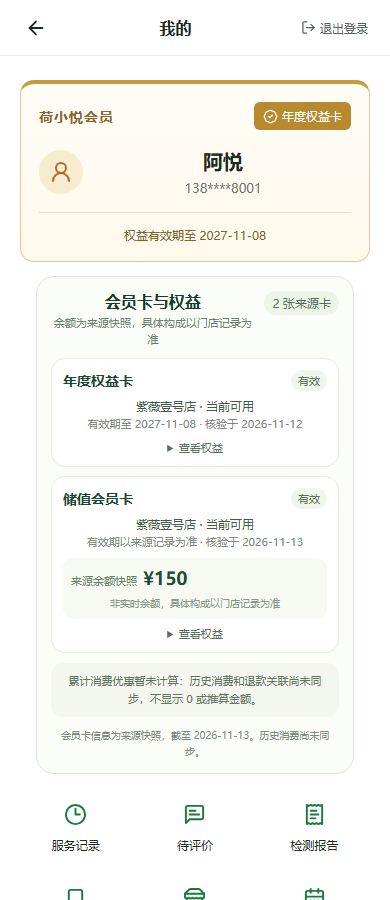
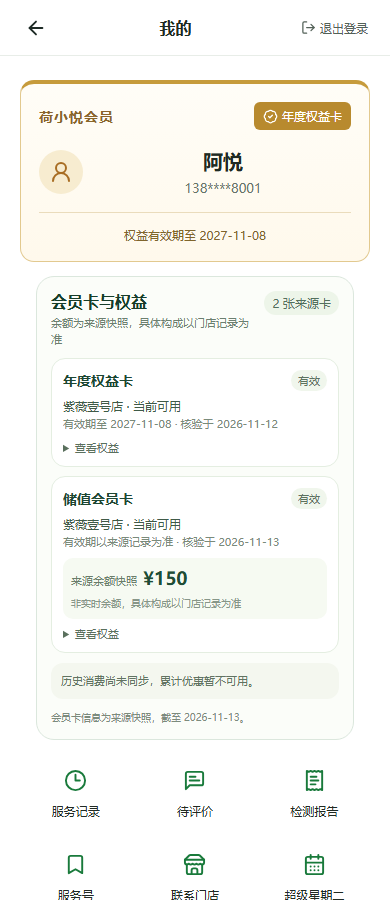
feat(customer): expose read-only membership card snapshots

diff --git a/diy-web/src/components/profile-home.css b/diy-web/src/components/profile-home.css
@@ -72,7 +72,7 @@
 .profile-section-heading > .profile-collapse-records { margin-left: 2px; color: #667369; }
 
 /* Read-only source membership snapshot. Never present as DIY wallet. */
-.profile-membership-detail{margin:14px 16px 4px;padding:14px;border:1px solid #dbe7dd;border-radius:18px;background:#fbfdf9}
+.profile-membership-detail{margin:14px 16px 4px;padding:14px;border:1px solid #dbe7dd;border-radius:18px;background:#fbfdf9;text-align:left}
 .profile-membership-heading{display:flex;justify-content:space-between;align-items:flex-start;gap:10px;margin-bottom:10px}
 .profile-membership-heading h2{margin:0;font-size:16px;color:#173d2a}
 .profile-membership-heading small{display:block;margin-top:3px;color:#6c7f70;font-size:11px;line-height:1.5}
@@ -93,7 +93,7 @@
 .profile-membership-balance small{flex-basis:100%;font-size:10px;color:#879688;line-height:1.5}
 .profile-membership-benefits{margin-top:7px;font-size:11px;color:#5a705d}
 .profile-membership-benefits summary{cursor:pointer;outline-offset:2px}
-.profile-membership-benefits ul{margin:6px 0 2px;padding-left:16px;line-height:1.6}
+.profile-membership-benefits ul{margin:6px 0 2px;padding-left:18px;line-height:1.6;text-align:left;list-style:disc outside}
 .profile-membership-benefits small{display:block;margin-top:4px;color:#89968a;font-size:10px;line-height:1.5}
 .profile-membership-unknown{display:grid;grid-template-columns:1fr 1fr;gap:9px;margin-top:10px}
 .profile-membership-unknown-note{margin:10px 0 0;padding:9px 10px;border-radius:12px;background:#f4f7ef;color:#617362;font-size:11px;line-height:1.6}

diff --git a/diy-web/src/components/ProfilePage.tsx b/diy-web/src/components/ProfilePage.tsx
@@ -311,8 +311,8 @@ function MembershipSnapshot({ data, loading, error, onRetry }: { data: CustomerM
         <details className="profile-membership-benefits"><summary>查看权益</summary><ul>{card.benefits.map(benefit => <li key={benefit}>{benefit}</li>)}</ul><small>{card.benefits_note}</small></details>
       </li>)}
     </ul>}
-    <p className="profile-membership-unknown-note">累计消费优惠暂未计算：历史消费和退款关联尚未同步，不显示 0 或推算金额。</p>
-    <p className="profile-membership-scope">{data.coverage.card_snapshot === 'returned' ? '会员卡信息为来源快照' : '暂无来源会员卡'}{data.coverage.as_of ? `，截至 ${formatDateTime(data.coverage.as_of).slice(0, 10)}` : ''}。历史消费尚未同步。</p>
+    <p className="profile-membership-unknown-note">历史消费尚未同步，累计优惠暂不可用。</p>
+    <p className="profile-membership-scope">{data.coverage.card_snapshot === 'returned' ? '会员卡信息为来源快照' : '暂无来源会员卡'}{data.coverage.as_of ? `，截至 ${formatDateTime(data.coverage.as_of).slice(0, 10)}` : ''}。</p>
   </section>;
 }
 

diff --git a/STATUS.md b/STATUS.md
@@ -40,7 +40,7 @@ pytest test_customer_membership_overview + h5_auth + membership_verification
 27 passed, 9 subtests passed
 
 diy-web build: passed
-diy-web tests: 380 tests, 379 passed, 1 skipped
+diy-web tests: 380 tests, 379 passed, 1 skipped（含 5 个 React 延迟/换号/退出/失效/重试用例）
 admin build: passed
 admin tests: 321 passed
 ```
@@ -49,8 +49,8 @@ admin tests: 321 passed
 
 ## 合成预览
 
-- 地址：`http://127.0.0.1:4179/`（本机合成 API + 当前构建代码，非生产数据）
-- 截图/HTML：`evidence/member-readonly-preview.png`、`evidence/member-readonly-preview.html`
+- 地址：`http://127.0.0.1:4179/?store=1`（本机合成 API + 当前构建代码，非生产数据）
+- 截图：`evidence/member-readonly-preview.png`
 - 储值/年度权益均展示既有周二活动；个人赠礼仅写“以门店记录为准”，不表示已发；来源、字段、只读等内部词不在顾客页堆叠。
 
 ## 来源字段
@@ -64,3 +64,7 @@ admin tests: 321 passed
 ## 下一阶段（需独立批准）
 
 历史消费账单存储/导入、退款/版本/去重、真实数据批次。
+
+## PR
+
+- 会员 PR #497；分支 `codex/member-readonly-20261113`；最新 head 以 PR 为准；未合并，等待独立复核。
